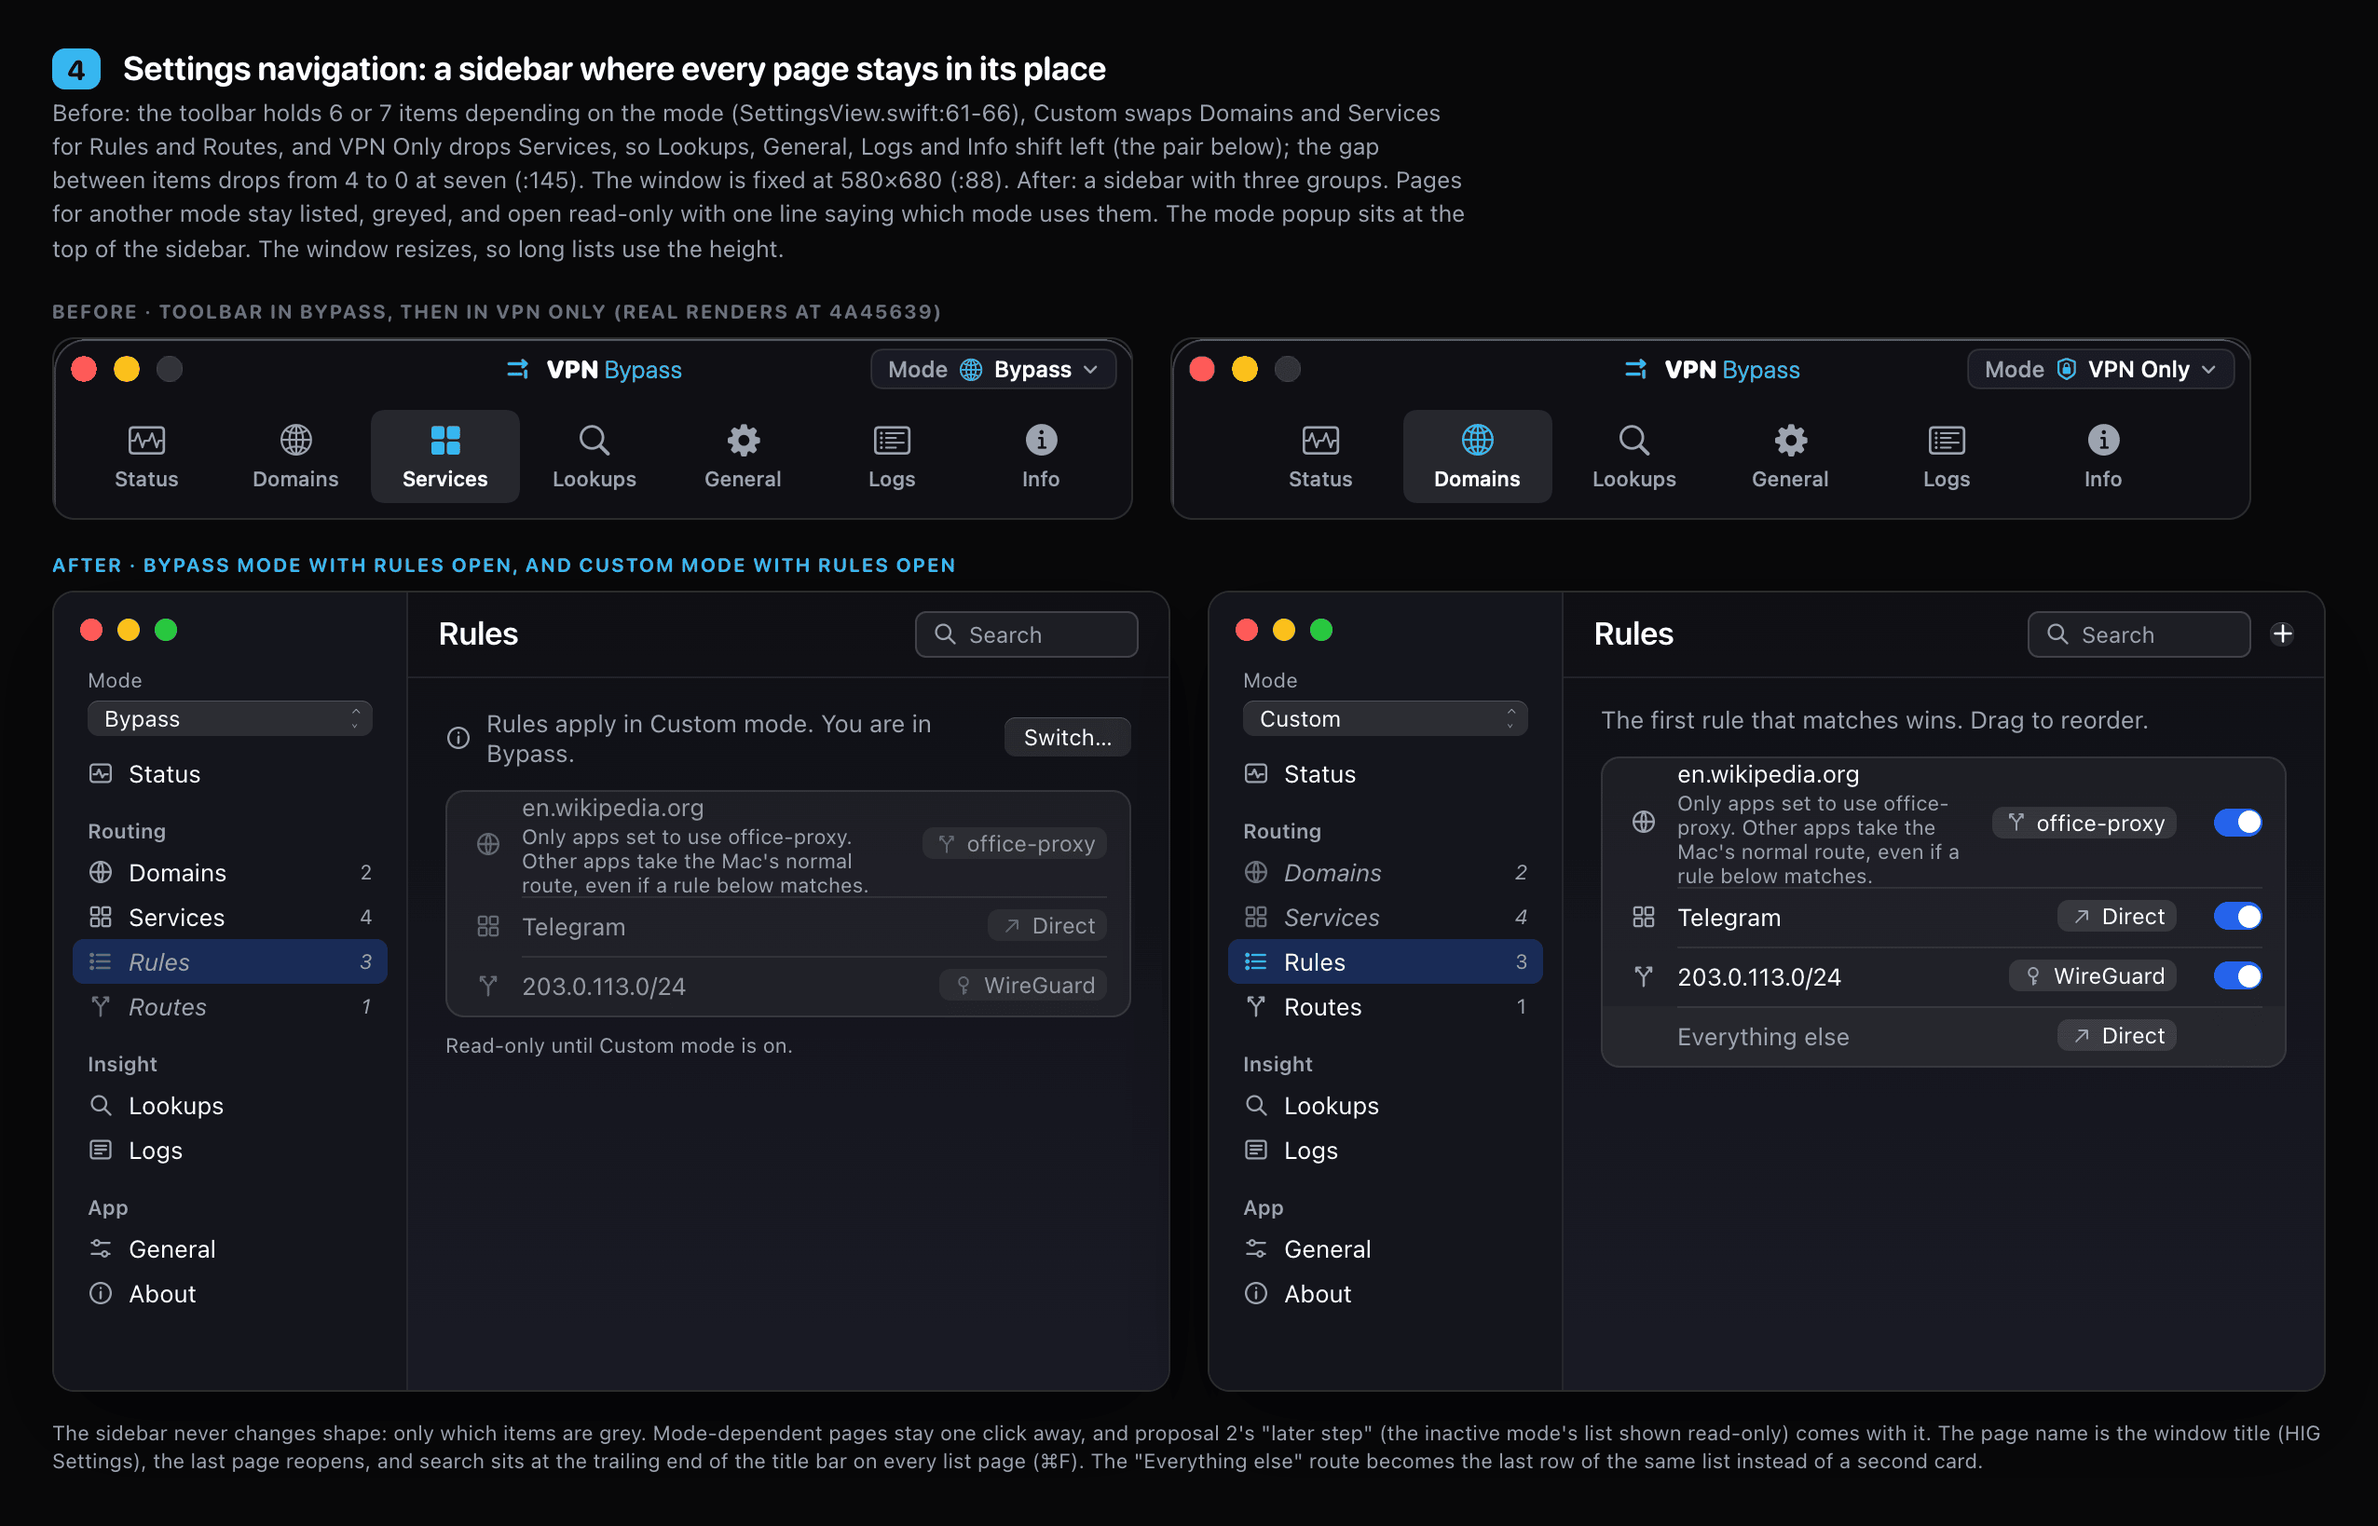
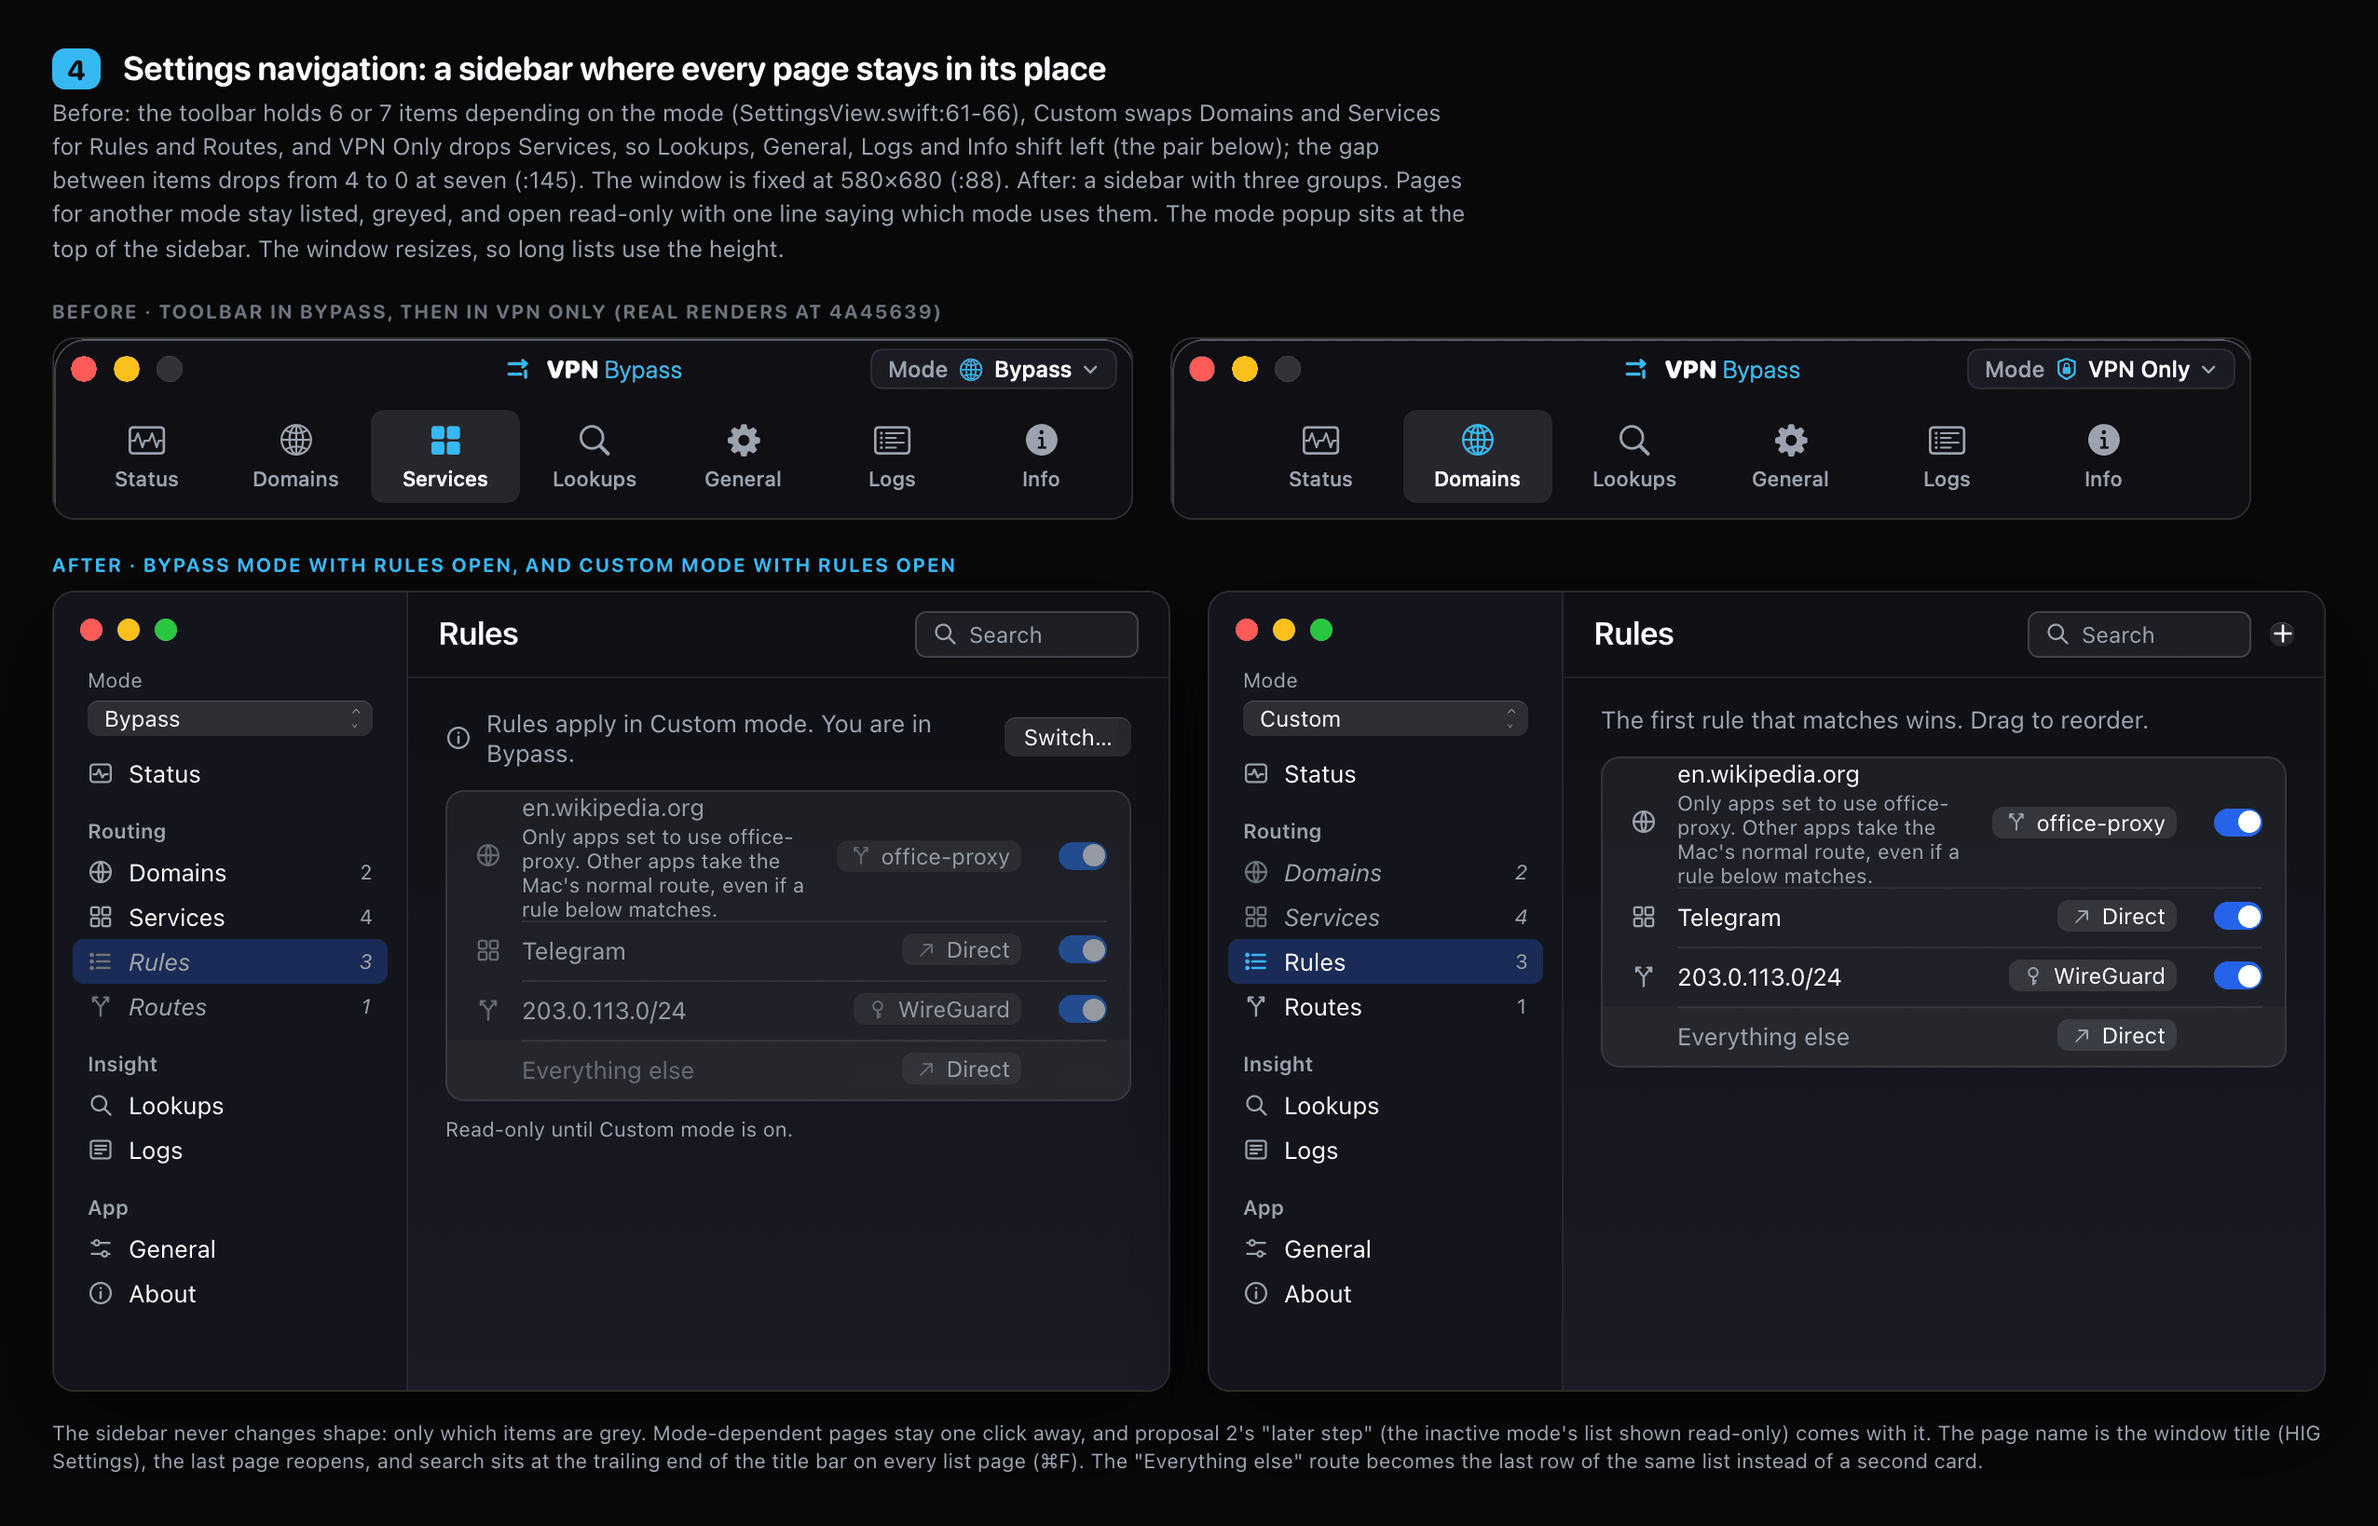
docs(design): show rule states read-only, and say when the path check has no control

Changed region(s): [[0.1857, 0.5604, 0.3715, 0.7473], [0.3405, 0.5293, 0.4643, 0.7161]]

diff --git a/docs/design/proposals/rework/04-navigation.html b/docs/design/proposals/rework/04-navigation.html
@@ -1,6 +1,6 @@
 <!doctype html>
 <html><head><meta charset="utf-8"><link rel="stylesheet" href="../ui/mock.css"><link rel="stylesheet" href="rework.css">
-<style> .shot { background-size: 580px auto; width: 580px; height: 98px; } .swin { height: 430px; } .dimtxt { color: var(--t2); } .box.ro .name, .box.ro .lead, .box.ro .rchip { opacity: .55; } </style>
+<style> .shot { background-size: 580px auto; width: 580px; height: 98px; } .swin { height: 430px; } .dimtxt { color: var(--t2); } .box.ro .name, .box.ro .lead, .box.ro .rchip, .box.ro .sw { opacity: .55; } </style>
 </head><body>
 <div class="head"><span class="num">4</span><span class="title">Settings navigation: a sidebar where every page stays in its place</span></div>
 <p class="caption">Before: the toolbar holds 6 or 7 items depending on the mode (SettingsView.swift:61-66), Custom swaps Domains and Services for Rules and Routes, and VPN Only drops Services, so Lookups, General, Logs and Info shift left (the pair below); the gap between items drops from 4 to 0 at seven (:145). The window is fixed at 580×680 (:88). After: a sidebar with three groups. Pages for another mode stay listed, greyed, and open read-only with one line saying which mode uses them. The mode popup sits at the top of the sidebar. The window resizes, so long lists use the height.</p>
@@ -38,9 +38,10 @@
           <div class="pane">
             <div class="r gap8" style="margin-bottom:12px"><i data-g="info"></i><span class="ty-body fill" style="color:var(--t2)">Rules apply in Custom mode. You are in Bypass.</span><span class="btn">Switch…</span></div>
             <div class="box ro">
-              <div class="row2 two"><span class="lead"><i data-g="globe"></i></span><div class="fill"><div class="name">en.wikipedia.org</div><div class="det">Only apps set to use office-proxy. Other apps take the Mac's normal route, even if a rule below matches.</div></div><span class="rchip"><i data-g="branch"></i>office-proxy</span></div>
-              <div class="row2"><span class="lead"><i data-g="grid"></i></span><span class="name fill">Telegram</span><span class="rchip"><i data-g="out"></i>Direct</span></div>
-              <div class="row2"><span class="lead"><i data-g="branch"></i></span><span class="name fill ty-mono">203.0.113.0/24</span><span class="rchip"><i data-g="key"></i>WireGuard</span></div>
+              <div class="row2 two"><span class="lead"><i data-g="globe"></i></span><div class="fill"><div class="name">en.wikipedia.org</div><div class="det">Only apps set to use office-proxy. Other apps take the Mac's normal route, even if a rule below matches.</div></div><span class="rchip"><i data-g="branch"></i>office-proxy</span><span class="sw on" role="img" aria-label="On" style="margin-left:12px"></span></div>
+              <div class="row2"><span class="lead"><i data-g="grid"></i></span><span class="name fill">Telegram</span><span class="rchip"><i data-g="out"></i>Direct</span><span class="sw on" role="img" aria-label="On" style="margin-left:12px"></span></div>
+              <div class="row2"><span class="lead"><i data-g="branch"></i></span><span class="name fill ty-mono">203.0.113.0/24</span><span class="rchip"><i data-g="key"></i>WireGuard</span><span class="sw on" role="img" aria-label="On" style="margin-left:12px"></span></div>
+              <div class="row2" style="background:rgba(255,255,255,.025);border-radius:0 0 10px 10px"><span class="lead"></span><span class="name fill" style="color:var(--t2)">Everything else</span><span class="rchip"><i data-g="out"></i>Direct</span><span style="width:38px"></span></div>
             </div>
             <div class="ty-detail" style="margin-top:8px">Read-only until Custom mode is on.</div>
           </div>

diff --git a/docs/design/proposals/rework/01b-direction-console.html b/docs/design/proposals/rework/01b-direction-console.html
@@ -8,7 +8,7 @@
   .tb2 span.dim { opacity:.4; }
   .tbl { border:.5px solid var(--groupLine); border-radius:8px; overflow:hidden; }
   .th, .tr { display:grid; align-items:center; padding:0 10px; column-gap:10px; }
-  .th { font:600 10px -apple-system,system-ui; letter-spacing:.6px; color:var(--t3); text-transform:uppercase; height:24px; border-bottom:.5px solid var(--groupLine); }
+  .th { font:600 10px -apple-system,system-ui; letter-spacing:.6px; color:var(--t2); text-transform:uppercase; height:24px; border-bottom:.5px solid var(--groupLine); }
   .tr { height:26px; font:400 12px ui-monospace,"SF Mono",Menlo,monospace; }
   .tr:nth-child(odd) { background:rgba(255,255,255,.03); }
   .tr .n { text-align:right; color:var(--t2); font-variant-numeric:tabular-nums; }

diff --git a/docs/design/APP-REWORK-PROPOSALS.md b/docs/design/APP-REWORK-PROPOSALS.md
@@ -268,7 +268,7 @@ Filtered from the product research. Two facts shape the list. First, every per-a
 
 | # | Idea | Problem | How | Size | Needs NE | Recommendation |
 |---|---|---|---|---|---|---|
-| 1 | **Path check** | "Verify Routes" pings (`RouteManager.verifyRoute`, `RouteManager.swift:4930`), so it tests whether a site answers, not which way it went. A site that blocks ping fails even when its route is right, which is why the option is off by default. | Ask the kernel which interface an address takes (`routeLookupAsync`, `:750`), then open a TCP connection to 443 and read its source address with `getsockname`. Both steps read the same routing table, so what it reports is "the route the kernel picks, and whether the site answers on 443 that way", not proof of where packets leave. It cannot see a packet-filter `route-to`, a content filter, or a tunnel that captures traffic below the route table, which is the #186 case (idea 8 covers that by behaviour). It carries its own control that must fail: each run also checks one address the app does not route (in Bypass, it must come back as the VPN; in VPN Only, as the physical interface), and the result is shown as "check broken" if the control does not come back the way an unlisted address should go. VPN Only gets the mirror check. On a split-tunnel VPN in Bypass the control can also leave outside the VPN; the check then reads broken rather than passing, because it cannot tell the two ways apart. | S-M | No | **Build first.** It replaces a ping with the question users keep checking with outside tools (#67, #184), and says plainly what it cannot see. |
+| 1 | **Path check** | "Verify Routes" pings (`RouteManager.verifyRoute`, `RouteManager.swift:4930`), so it tests whether a site answers, not which way it went. A site that blocks ping fails even when its route is right, which is why the option is off by default. | Ask the kernel which interface an address takes (`routeLookupAsync`, `:750`), then open a TCP connection to 443 and read its source address with `getsockname`. Both steps read the same routing table, so what it reports is "the route the kernel picks, and whether the site answers on 443 that way", not proof of where packets leave. It cannot see a packet-filter `route-to`, a content filter, or a tunnel that captures traffic below the route table, which is the #186 case (idea 8 covers that by behaviour). It carries its own control that must fail: each run also checks one address the app does not route (in Bypass, it must come back as the VPN; in VPN Only, as the physical interface), and the result is shown as "check broken" if the control does not come back the way an unlisted address should go. VPN Only gets the mirror check. When app routes cover every control candidate there is no control to run, and the result says the check ran without one rather than passing silently. On a split-tunnel VPN in Bypass the control can also leave outside the VPN; the check then reads broken rather than passing, because it cannot tell the two ways apart. | S-M | No | **Build first.** It replaces a ping with the question users keep checking with outside tools (#67, #184), and says plainly what it cannot see. |
 | 2 | **"Where does this site go?"** | A user cannot tell which entry routes a site, or why it still goes through the VPN. | A field on Status, plus `vpnb why <host> [--json]`. Resolve as the app does, match against `ActiveRoute.source` (`:238-244`), wildcards, then Custom rules in first-match order (#184's priority logic), then run check 1 on up to four of the IPv4 addresses the site resolves to (`SiteRoute.maxChecked`, always including the one whose route matched; both resolvers ask for IPv4 only, so a dual-stack site's IPv6 addresses are not checked and the result says so) and say how many took each path, and how many were not checked ("4 IPv4 addresses, all 4 routed through Wi-Fi and answering on 443"), never more than the check can see. One sentence, with an Add button when the site is not listed. | S | No | **Build with 1.** They share code. |
 | 3 | **Bypass the site you are on** | The most common action is "this page needs to skip the VPN", and today it means copying the host. | A dropdown row, "shop.example.com · open in Safari [Bypass]". It reads the front tab through Apple Events (Safari and Chromium browsers; Firefox does not support it). The alternatives are clipboard only (no prompt, but not discoverable) or a browser extension (L, two more things to ship). | M | No | **Build.** Apple Events, at the cost of one Automation prompt per browser, plus signing work: the hardened-runtime app needs the `com.apple.security.automation.apple-events` entitlement and an `NSAppleEventsUsageDescription` string in `Info.plist`. `VPNBypass.entitlements` is not passed to `codesign` today (`scripts/sign-and-notarize.sh:36`), so that script learns `--entitlements`, and the change ships through the signed, notarized release path, never a re-sign. |
 | 4 | **Pause** | See flow fix 2. | See flow fix 2. | S | No | **Build** (it is flow fix 2). |
